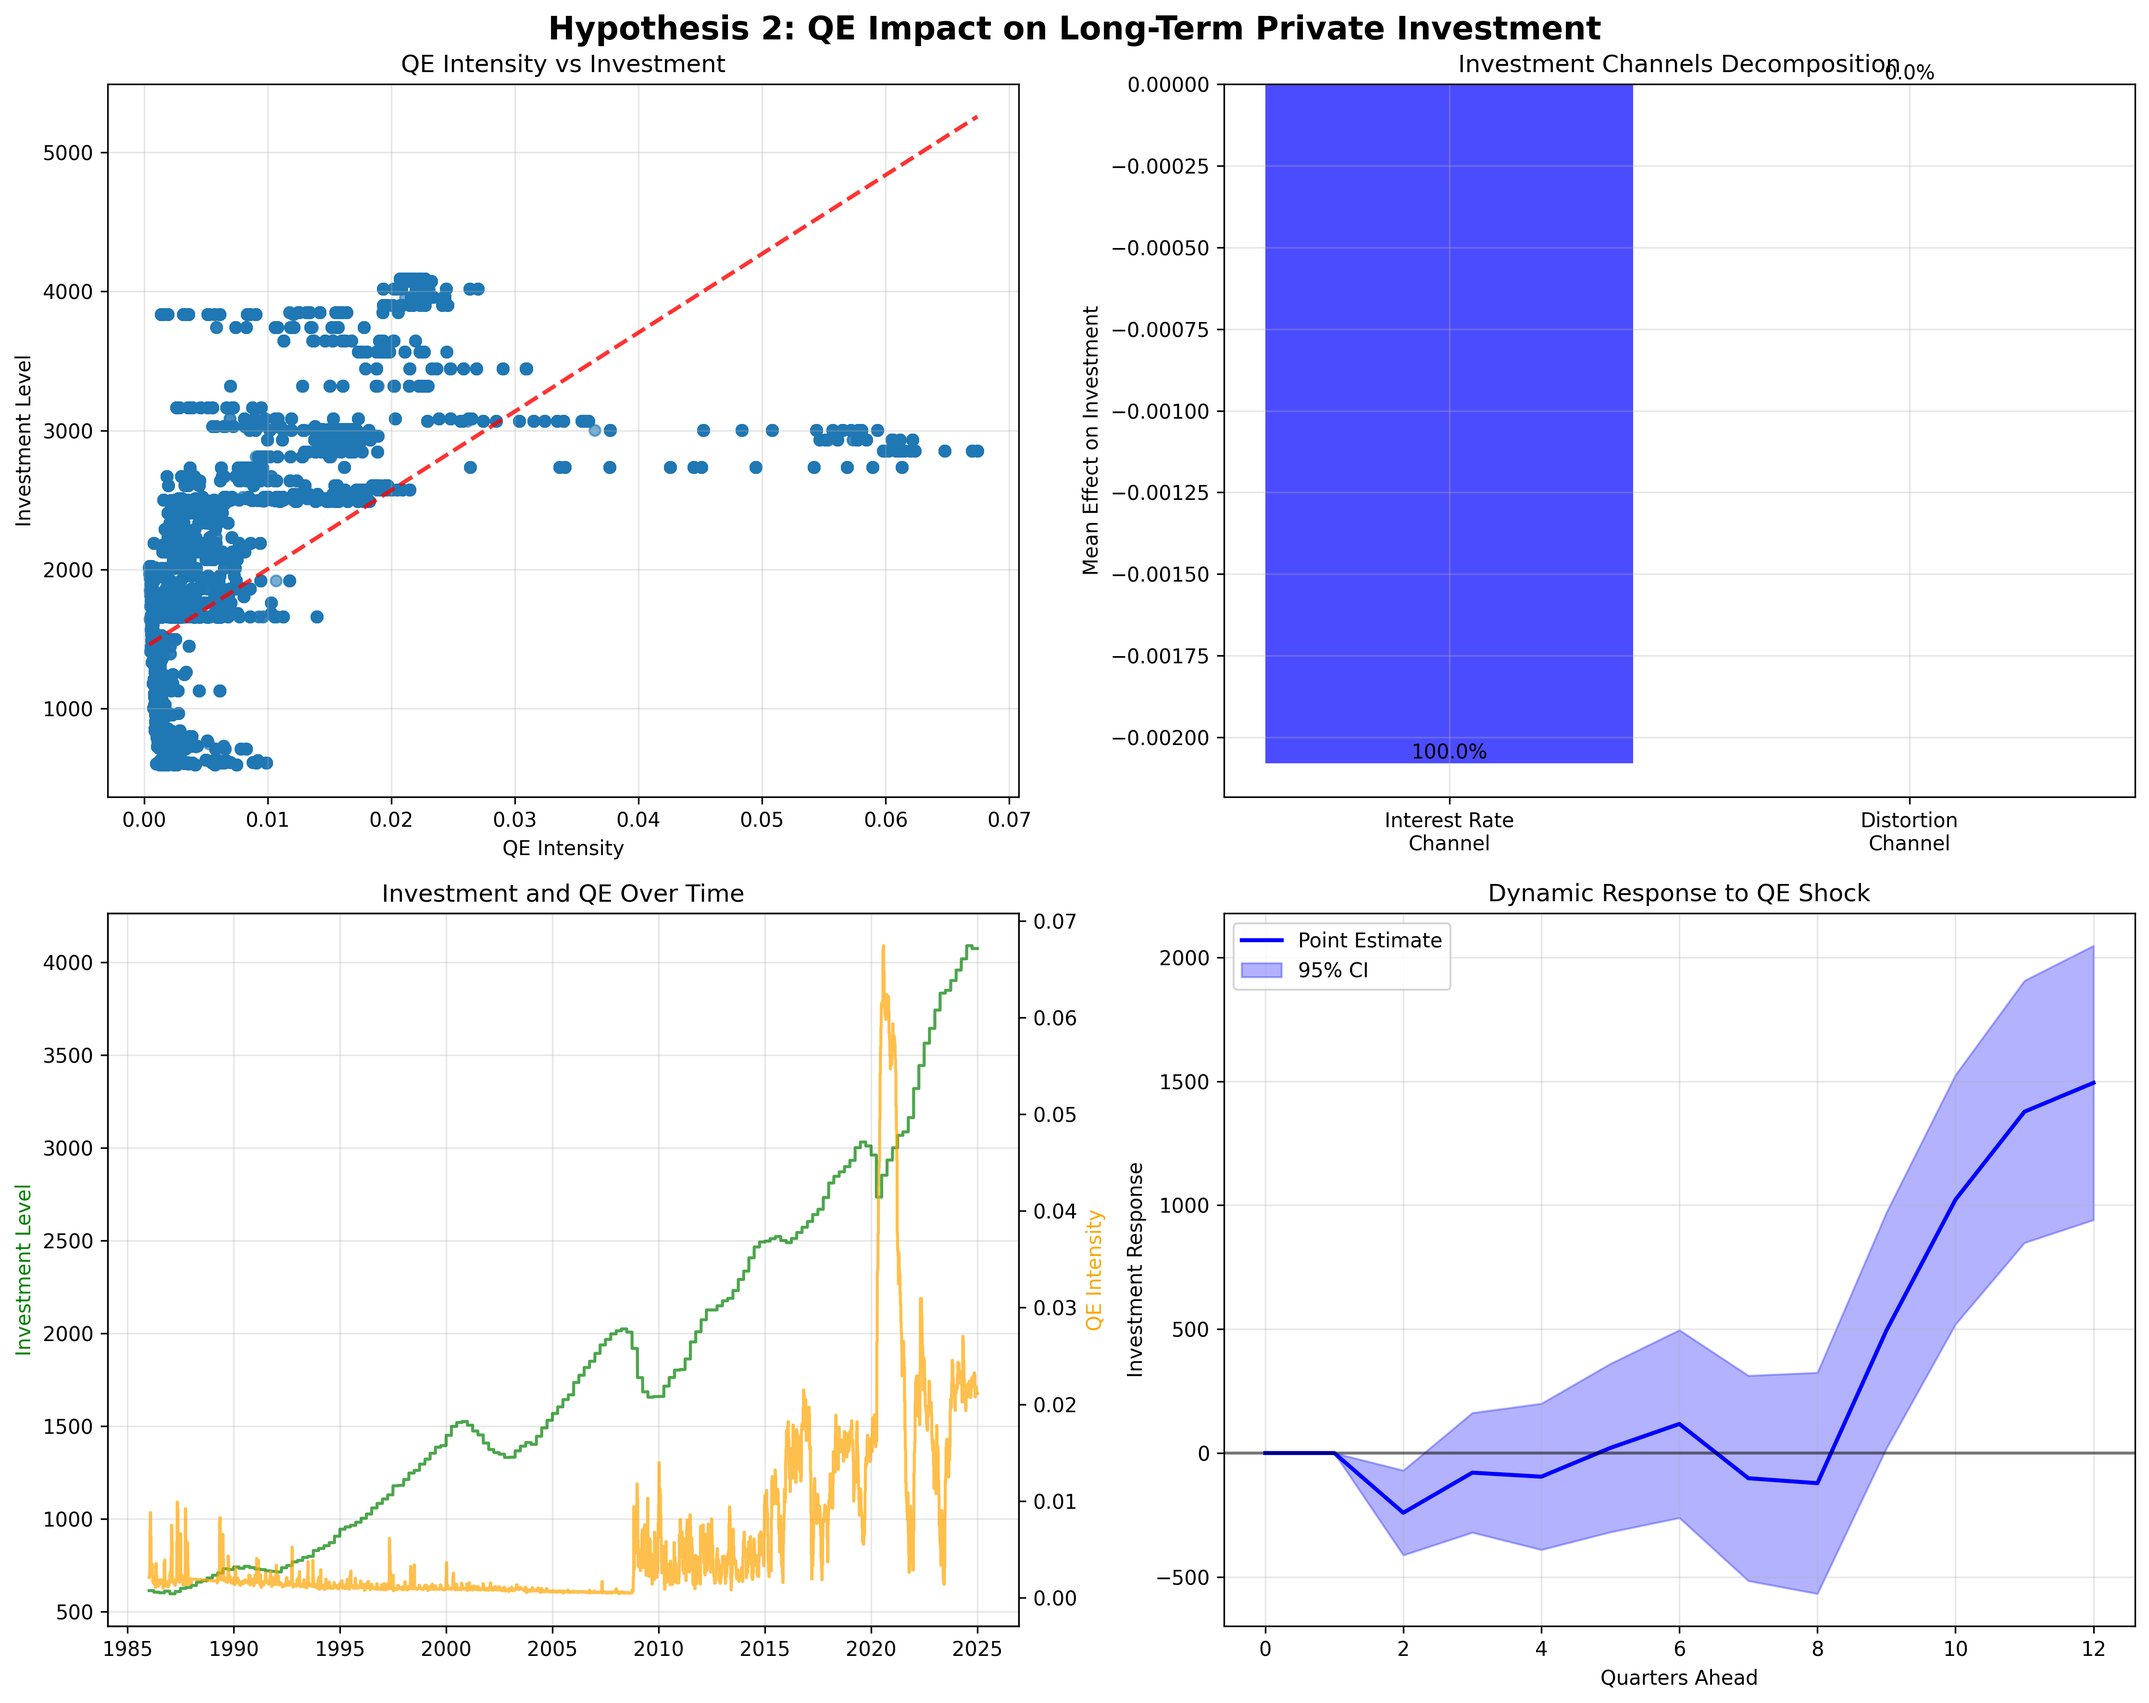
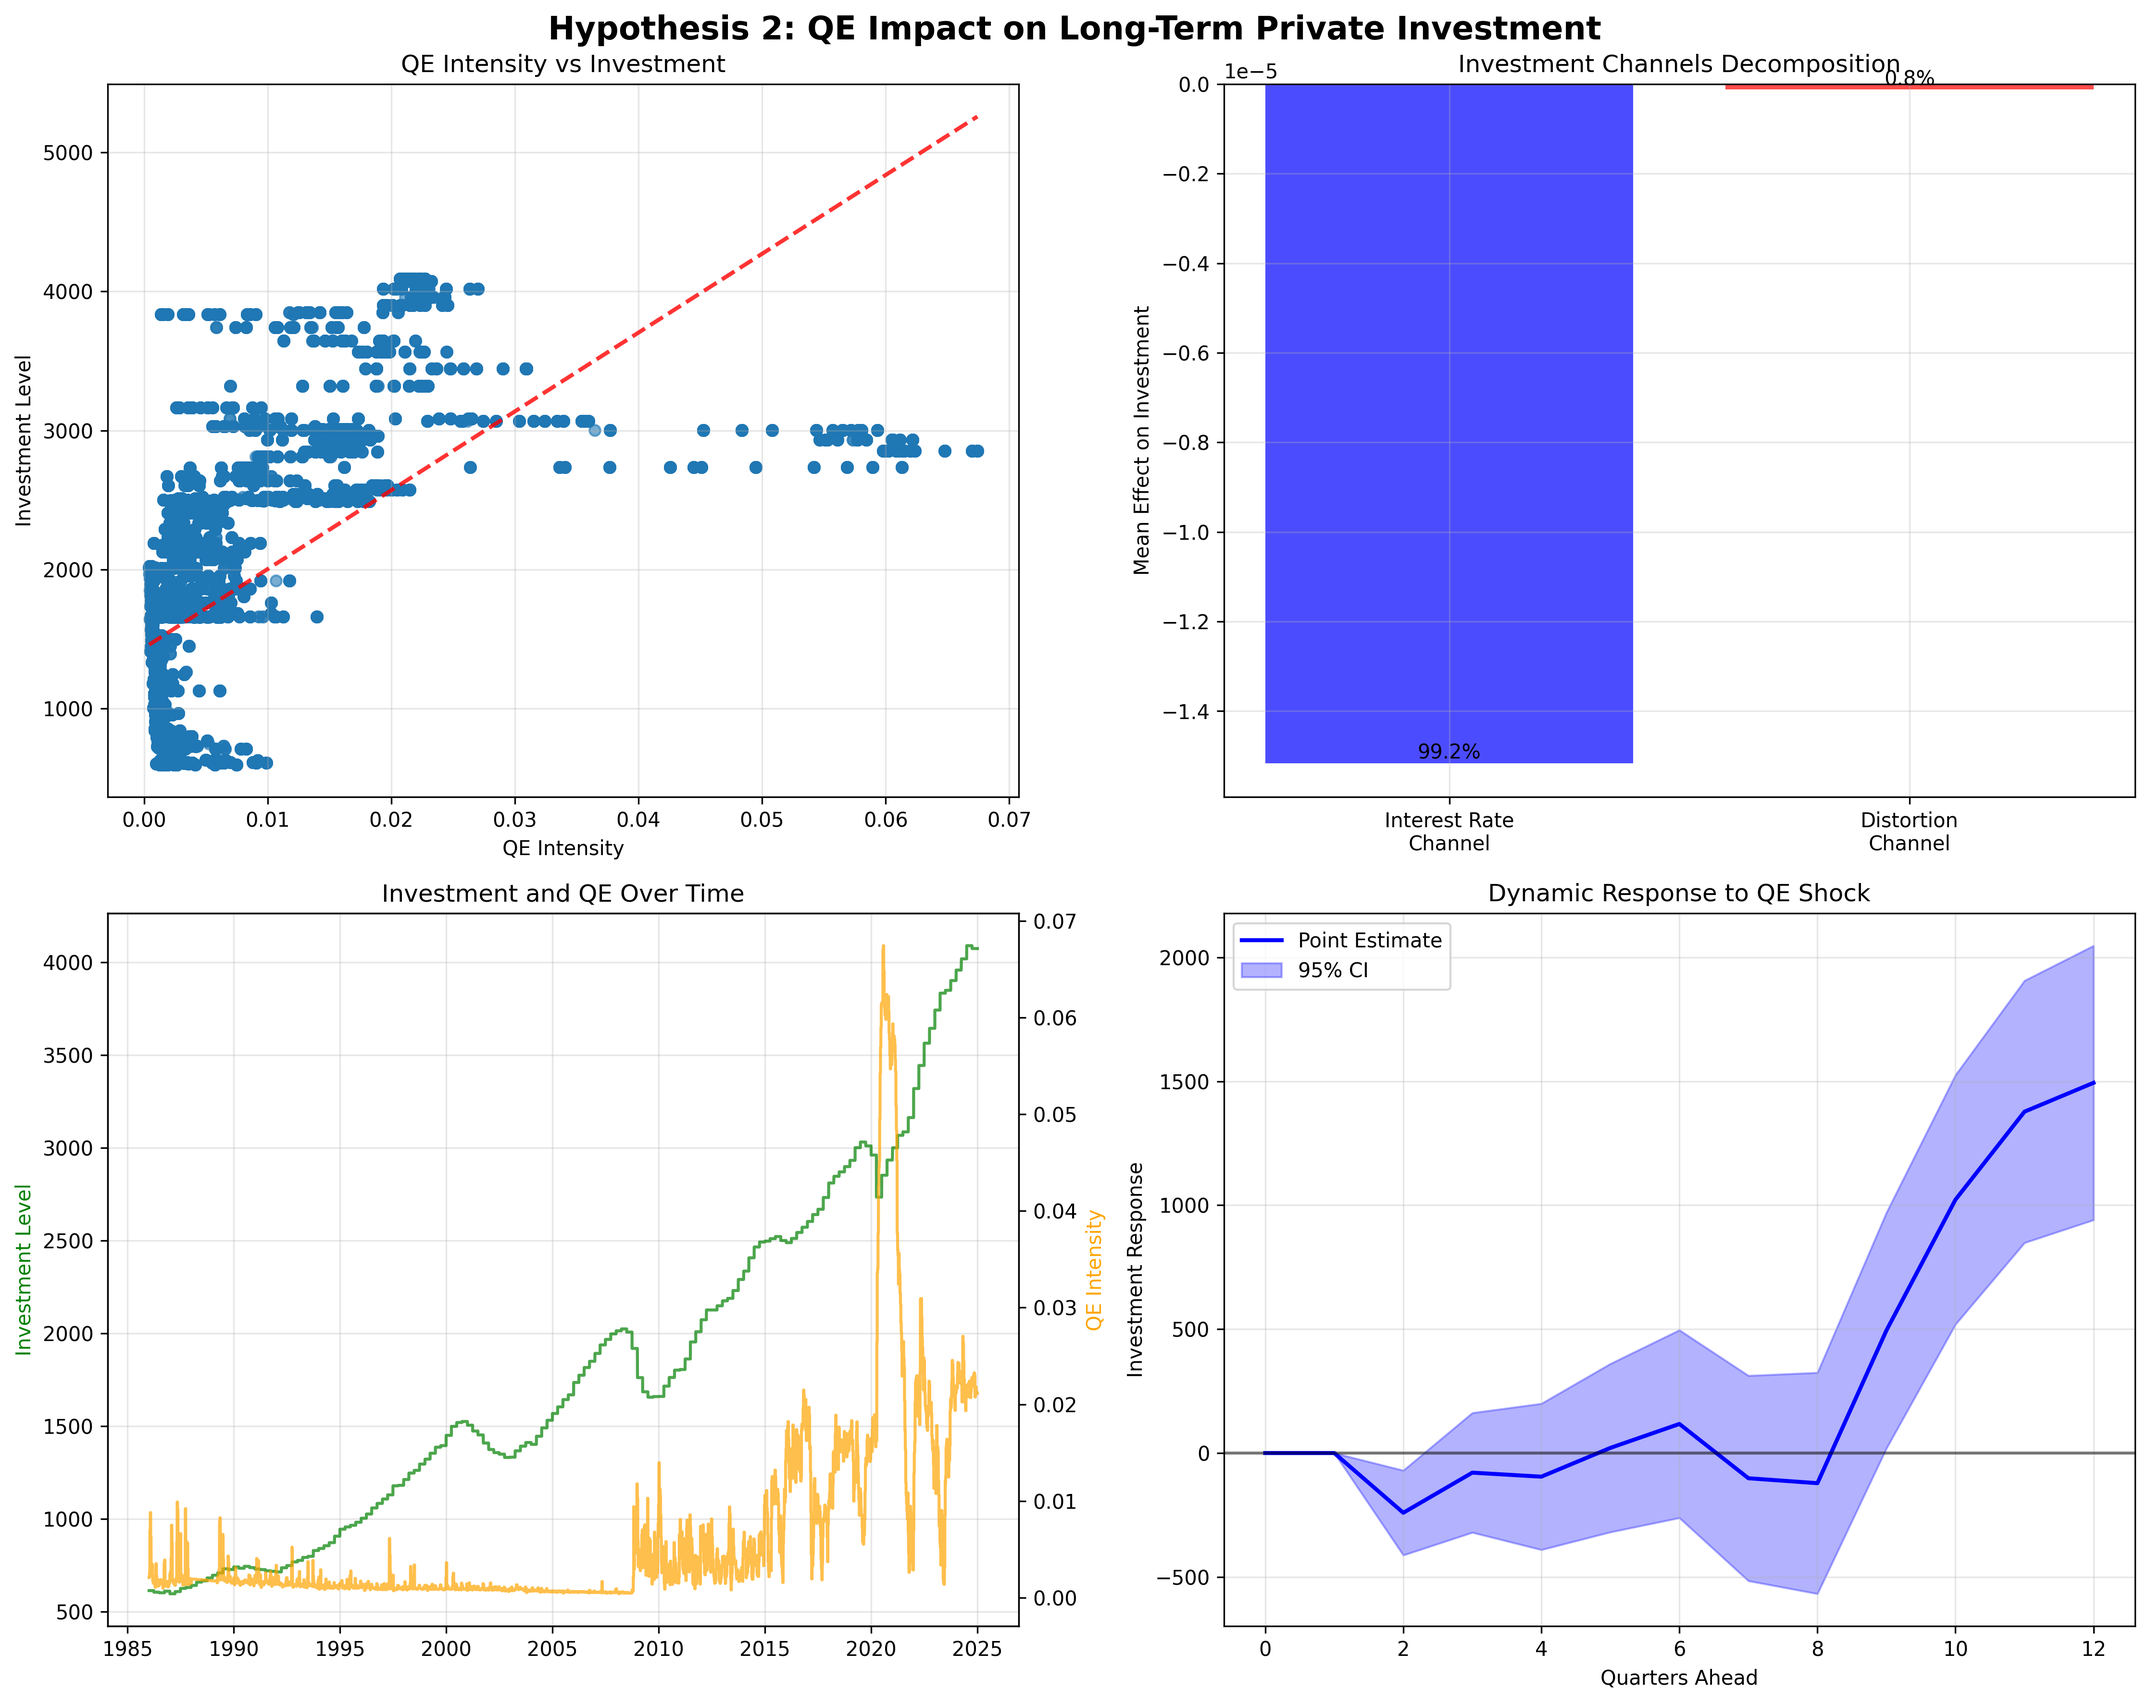
Sucessful fix and run

diff --git a/testhyp2.py b/testhyp2.py
@@ -209,16 +209,16 @@ def run_iv_regression(data):
         std_errors = pd.Series(second_stage.bse, index=coeff_names)
         t_stats = pd.Series(second_stage.tvalues, index=coeff_names)
         p_values = pd.Series(second_stage.pvalues, index=coeff_names)
-        
+
         # Find QE coefficients
-        qe_coeff = coeffs.iloc[1] if len(coeffs) > 1 else np.nan  # qe_intensity_squared
-        qe_se = std_errors.iloc[1] if len(std_errors) > 1 else np.nan
-        qe_pvalue = p_values.iloc[1] if len(p_values) > 1 else np.nan
-        
+        qe_coeff = coeffs.get('qe_intensity_squared', np.nan)
+        qe_se = std_errors.get('qe_intensity_squared', np.nan)
+        qe_pvalue = p_values.get('qe_intensity_squared', np.nan)
+
         # Interest rate coefficient
-        yield_coeff = coeffs.iloc[0] if len(coeffs) > 0 else np.nan  # long_yield
-        yield_se = std_errors.iloc[0] if len(std_errors) > 0 else np.nan
-        yield_pvalue = p_values.iloc[0] if len(p_values) > 0 else np.nan
+        yield_coeff = coeffs.get('long_yield', np.nan)
+        yield_se = std_errors.get('long_yield', np.nan)
+        yield_pvalue = p_values.get('long_yield', np.nan)
         
         results = {
             'dependent_variable': dep_var_name,
